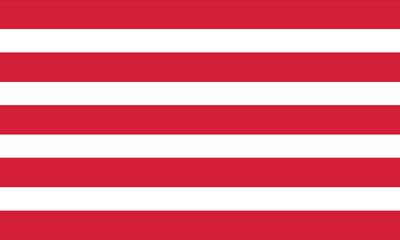
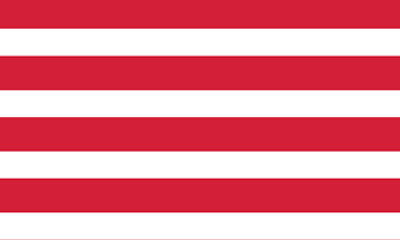
Wrote different background shaders

diff --git a/RPG/Battle.cs b/RPG/Battle.cs
@@ -13,24 +13,45 @@ namespace RPG
     {
         private Texture2D background;
         private Effect effect;
+        private double time;
+        private RenderTarget2D firstEffect;
+        private RenderTarget2D final;
+        private GraphicsDevice graphicsDevice;
 
-        public Battle(ContentManager contentManager)
+        public Battle(ContentManager contentManager, RenderTarget2D final, GraphicsDevice graphicsDevice, RenderTarget2D firstEffect)
         {
-            background = contentManager.Load<Texture2D>("Battle/Background");
+            background = contentManager.Load<Texture2D>("Battle/Layer");
             effect = contentManager.Load<Effect>("Battle/BattleBG");
+            effect.Parameters["time"].SetValue((float)time);
+            this.firstEffect = firstEffect;
+            this.final = final;
+            this.graphicsDevice = graphicsDevice;
         }
 
         public void Draw(SpriteBatch sb)
         {
+            graphicsDevice.SetRenderTarget(firstEffect);
+            sb.Begin(sortMode: SpriteSortMode.Immediate);
+            effect.CurrentTechnique.Passes[2].Apply();
+            graphicsDevice.SamplerStates[0] = SamplerState.PointWrap;
+            sb.Draw(background, new Rectangle(0,0, 400, 240), Color.White);//Draw to texture
+            sb.End();
+
+            graphicsDevice.SetRenderTarget(final);
             sb.Begin(sortMode: SpriteSortMode.Immediate);
             effect.CurrentTechnique.Passes[0].Apply();
-            sb.Draw(background, new Rectangle(0,0, background.Width, background.Height), Color.White);
+            graphicsDevice.SamplerStates[0] = SamplerState.PointWrap;
+            sb.Draw(firstEffect, new Rectangle(0, 0, 400, 240), Color.White);//Draw texture to buffer
             sb.End();
+            
         }
 
         public void Update(GameTime gameTime)
         {
-
+            time += gameTime.ElapsedGameTime.TotalSeconds;
+            if (time > Math.PI)
+                time -=0;
+            effect.Parameters["time"].SetValue((float)time);
         }
     }
 }

diff --git a/RPG/Game1.cs b/RPG/Game1.cs
@@ -55,7 +55,7 @@ namespace RPG
             PresentationParameters pp = GraphicsDevice.PresentationParameters;
             scene = new RenderTarget2D(GraphicsDevice, 400, 240, false, SurfaceFormat.Color, DepthFormat.None, pp.MultiSampleCount, RenderTargetUsage.DiscardContents);
             myMap = new Map(GraphicsDevice, Content, 16, 16, 10, 10);
-            battle = new Battle(Content);
+            battle = new Battle(Content, scene, GraphicsDevice, new RenderTarget2D(GraphicsDevice, 400, 240, false, SurfaceFormat.Color, DepthFormat.None, pp.MultiSampleCount, RenderTargetUsage.DiscardContents));//if things break, look here
             sb = new SpriteBatch(GraphicsDevice);
             render = new SpriteBatch(GraphicsDevice);
 
@@ -127,7 +127,7 @@ namespace RPG
         {
             GraphicsDevice.SetRenderTarget(scene);
             //GraphicsDevice.Clear(Color.CornflowerBlue);
-            GraphicsDevice.SamplerStates[0] = SamplerState.PointClamp;
+            GraphicsDevice.SamplerStates[0] = SamplerState.PointWrap;
 
             //myMap.Draw(render);
             battle.Draw(sb);
